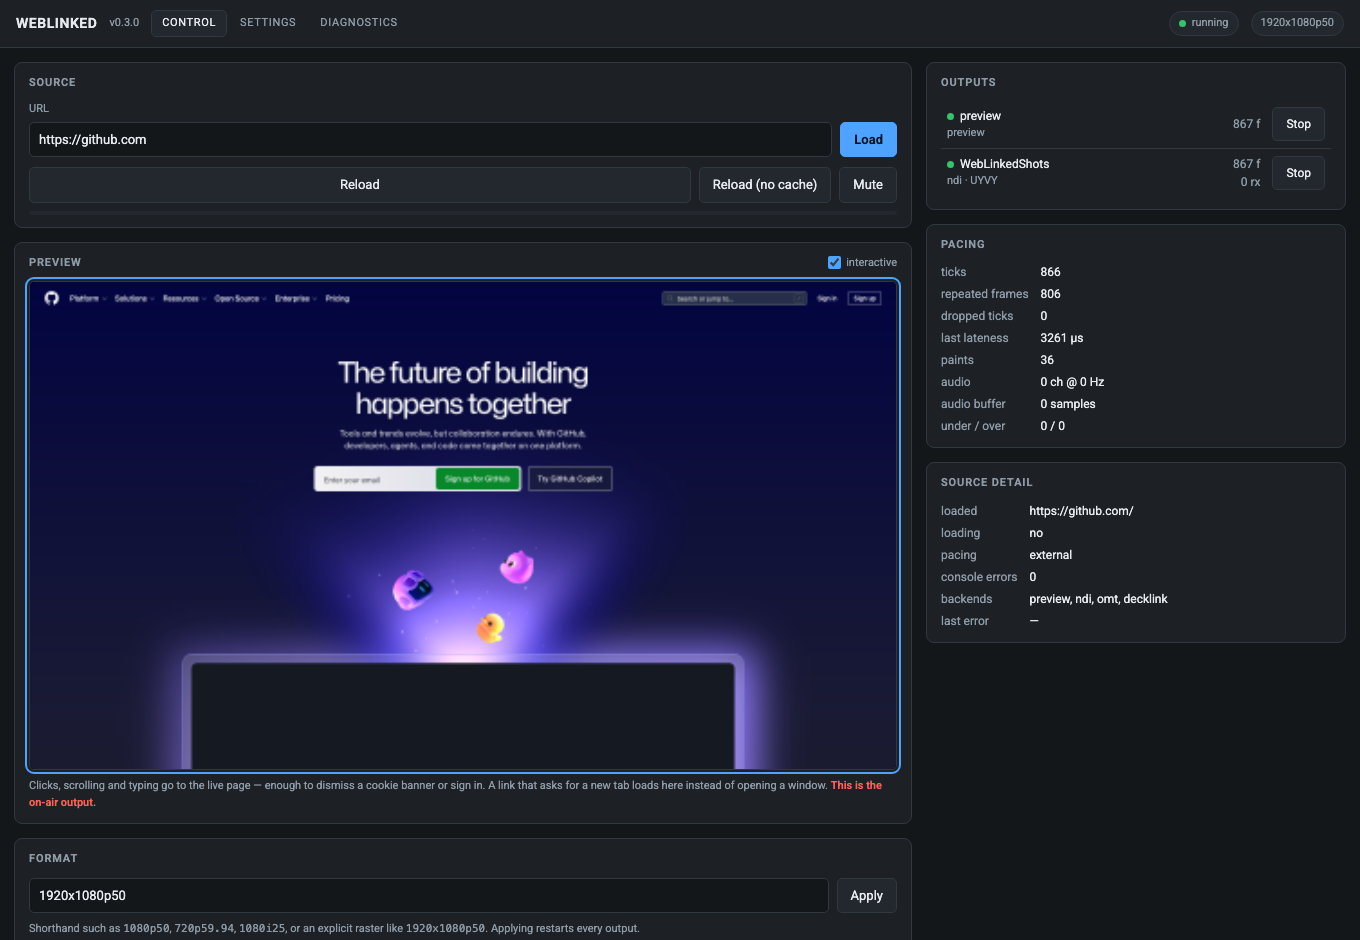
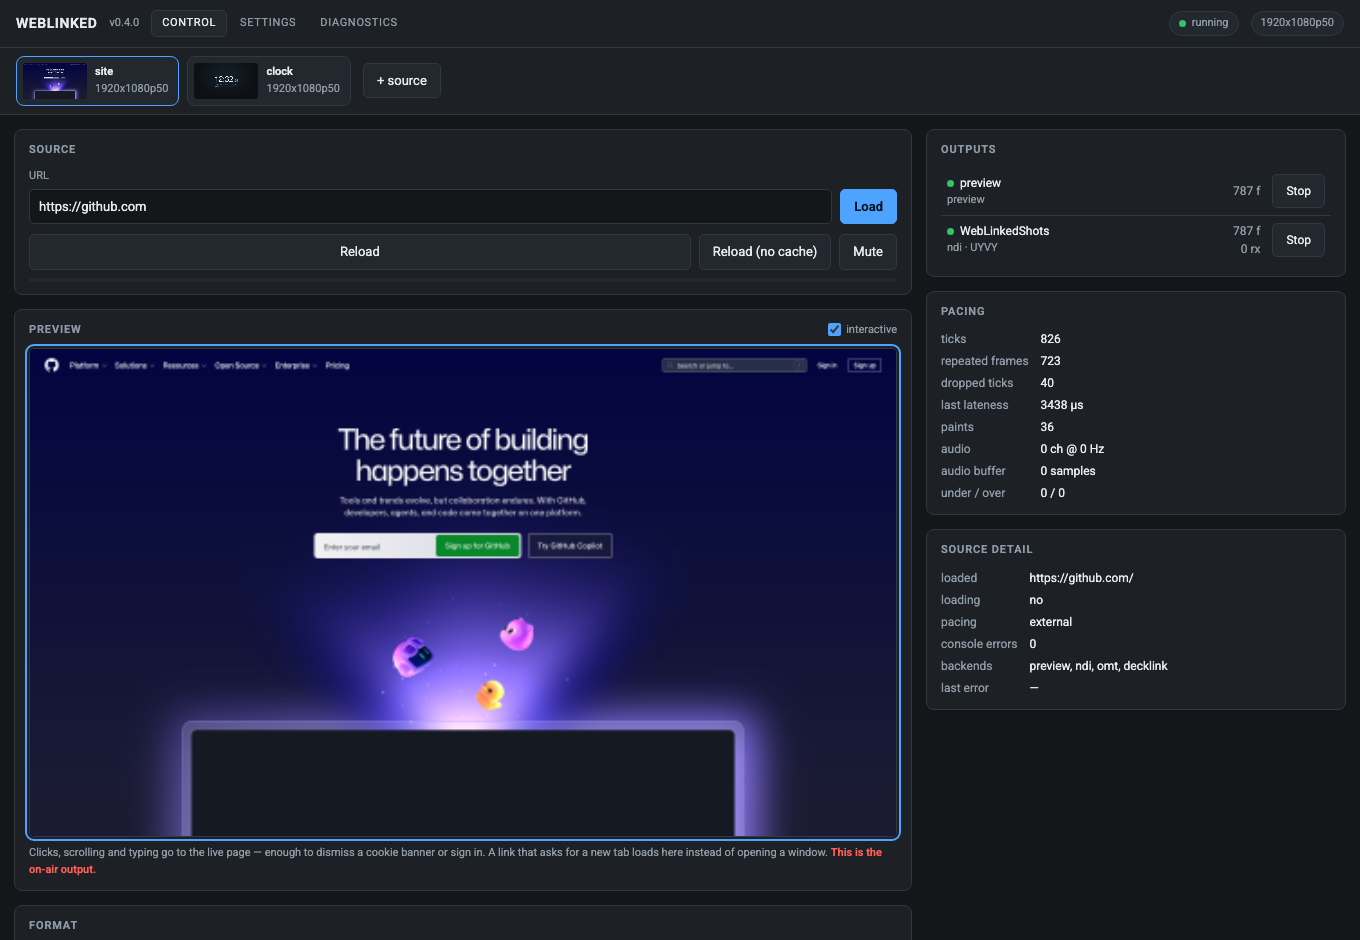
Release v0.4.0: several sources in one process
Version, README, AGENTS.md and all five screenshots brought up to what the
build actually does.

The screenshots are regenerated from a real two-source instance rather than a
single one, because the control page's source strip only exists when there is
more than one - and the strip is the thing the pictures now have to show. That
also removes the mid-run URL switch tools/screenshots.sh needed to get a second
output frame: both sources are simply on air at once, and the two frames in the
README were received from the network simultaneously, from the same process
that served the page above them.

AGENTS.md gains the invariants this work established, all of which have already
cost time once: sources never learn about each other, an Engine is only ever
reached through SourceManager::withSource, the control page has no build step so
a stray byte is invisible until run time, and document.hidden does not mean
nobody is looking.

Built clean before tagging, per rule 11 - an incremental build reuses the CEF
wrapper's objects and hides anything that breaks CEF's own compilation.
263 targets from scratch, all four backends configured, 73 tests / 25058 checks
green.

diff --git a/README.md b/README.md
@@ -17,6 +17,9 @@ weblinked --url https://example.com/scoreboard --format 1080p50 --ndi=Scoreboard
 
 # A keyed graphic: alpha over NDI, and key + fill out of a DeckLink
 weblinked --url https://example.com/lower-third --alpha --ndi=LowerThird --key --decklink=0
+
+# Several at once, each with its own browser, clock, raster and outputs
+weblinked --config show.json
 ```
 
 ---
@@ -30,10 +33,12 @@ appears, because none has ever been connected. See
 
 ![The WebLinked control page, rendering github.com to NDI at 1080p50](docs/images/control-page.png)
 
-*The control page. It is both the operator window and a remote panel — the app
-opens this same page in its own window, and any browser on the network can reach
-it. The preview is fed by the same frame pipeline as the SDI and NDI outputs, so
-if the preview is right, the outputs are right.*
+*The control page, driving two sources. It is both the operator window and a
+remote panel — the app opens this same page in its own window, and any browser
+on the network can reach it. The strip along the top carries a live thumbnail per
+source and only appears when there is more than one, so a single-source launch
+looks exactly as it always did. The preview is fed by the same frame pipeline as
+the SDI and NDI outputs, so if the preview is right, the outputs are right.*
 
 | Settings | Diagnostics |
 |---|---|
@@ -47,7 +52,10 @@ browser. They are what a vision mixer would have seen.
 | A live page | A time-of-day clock |
 |---|---|
 | ![github.com rendered to 1080p50 and received over NDI](docs/images/output-github.png) | ![A clock page rendered to 1080p50 and received over NDI](docs/images/output-clock.png) |
-| `--url https://github.com` | `--url file://tools/clock.html` |
+| source `site` | source `clock` |
+
+Both were on the network **at the same time**, from the one process that served
+the control page above — which is what the two chips in its strip are.
 
 `tools/clock.html` ships with the repo. It is a useful thing to point at a feed:
 a clock is the quickest way to see at a glance whether a signal is live, and its
@@ -92,13 +100,27 @@ Regenerate all five with [`tools/screenshots.sh`](tools/screenshots.sh).
 - **Live control**: change the URL, reload, run JavaScript in the page, change
   raster, or stop and start an output mid-show, from the control page, HTTP, or
   OSC.
+- **Several sources in one process.** `--config show.json` starts any number of
+  independent pipelines — each its own browser, clock, raster and outputs — and
+  they share nothing but Chromium's process. A page that hangs, a card that will
+  not open or a raster change on one source cannot touch the others. The control
+  page grows a strip along the top with a live thumbnail per source; HTTP verbs
+  take `?source=<id>` and OSC takes `/weblinked/source/<id>/<verb>`. Leave the id
+  off and the request goes to the first source, so everything that drove a
+  single-source WebLinked still does.
+
+  How many a machine can carry is a property of that machine, not a setting.
+  Three 1080p sources drop frames on an M4 Max; three at 720p25 do not. Measure
+  it where the show will run — [docs/04-verification.md](docs/04-verification.md)
+  has the numbers and the method.
 - **A tray launcher** ([`launcher/`](launcher/)) for a machine where WebLinked
   should come up at login and live in the menu bar rather than in a terminal.
 
 ## What it does not do
 
-- No compositing, no layers, no playlist. It renders one page. If you need two
-  graphics at once, that is what the page is for.
+- No compositing, no layers, no playlist. Each source renders one page. If you
+  need two graphics in one picture, that is what the page is for; if you need two
+  pictures, that is what a second source is for.
 - No capture or input. Output only.
 - No genlock. The engine's clock is a software clock; an SDI card's own scheduled
   playback absorbs the difference. See
@@ -113,6 +135,7 @@ Regenerate all five with [`tools/screenshots.sh`](tools/screenshots.sh).
 |---|---|
 | **NDI** | **Verified end to end**, including alpha. A real receiver confirms raster, rate, pixel format, colour and audio. |
 | **Preview** | Verified, and interactive — it is the control page's confidence monitor. |
+| **Several sources** | **Verified**: three at once on three rasters, each confirmed by a separate receiver, with one retargeted and a fourth added and removed mid-run without disturbing the others. Frame rates are a capacity question — see below. |
 | **Settings + diagnostics pages** | Verified against a running instance: outputs added, renamed and removed, settings saved and read back after a restart, the log and bundle served. |
 | **Tray launcher** | Builds; its config is unit-tested against the file it ships. **Not clicked through against a live WebLinked** — see [launcher/README.md](launcher/README.md). |
 | **OMT** | Compiles against `libomt.h` 1.0.0.16. **Never tested against an OMT receiver.** |
@@ -168,6 +191,11 @@ curl -X POST -d '{"ignore_cache":true}'              http://127.0.0.1:7654/api/r
 curl -X POST -d '{"name":"Graphic","enabled":false}' http://127.0.0.1:7654/api/output
 # Click at the centre of the page, in normalised coordinates
 curl -X POST -d '{"type":"down","nx":0.5,"ny":0.5}'  http://127.0.0.1:7654/api/input
+
+# With several sources, ?source= picks one; without it you get the first
+curl http://127.0.0.1:7654/api/sources
+curl -X POST -d '{"url":"https://example.com/next"}' \
+     'http://127.0.0.1:7654/api/url?source=lower-third'
 ```
 
 Over OSC, on port 7655 — the shape a Companion button sends:
@@ -177,6 +205,9 @@ Over OSC, on port 7655 — the shape a Companion button sends:
 /weblinked/reload       1
 /weblinked/output/Graphic  0
 /weblinked/script       "showLowerThird('Anna Kowalski')"
+
+# One feed by name, when several are running
+/weblinked/source/lower-third/url  "https://example.com/next"
 ```
 
 `/weblinked/script` is the useful one: a graphic that already exposes a function

diff --git a/AGENTS.md b/AGENTS.md
@@ -48,6 +48,12 @@ and a hung control API. See §4.
 and NDI, so if the preview is right the outputs are right. Don't shortcut it
 straight from the browser.
 
+**Sources know nothing about each other.** `SourceManager` holds N whole
+Engines; no engine ever learns that the others exist, which is what makes one
+hung page or one missing card harmless to the rest. The manager is a map and a
+lock, nothing more — resist the urge to give it a shared clock, a shared frame
+pool or a shared browser. The independence *is* the feature.
+
 ## 3. Layout
 
 ```
@@ -175,6 +181,29 @@ screenshot.
 **Never let the settings page rewrite itself under someone's fingers.** The
 state poll runs every second; the editors are built only on arriving at the view
 and after a successful mutation.
+
+**Never hold a bare `Engine*` across anything.** Every call reaches an engine
+through `SourceManager::withSource`, which holds a shared lock for the duration;
+`add`, `remove` and `stop` take the exclusive one. `Engine` reads `browser_`
+without a lock and `Engine::stop()` destroys it, so a pointer that outlives the
+lookup is a use-after-free waiting for an operator to remove a source mid-show.
+The expensive halves of add and remove happen *outside* the lock on purpose —
+holding it across a browser start would freeze every other source's control
+surface.
+
+**The control page has no build step, so a stray byte is invisible until
+run time.** A single NUL inside a `.join(' ')` compiled fine, served 200, rendered
+the HTML, and killed every line of JavaScript after it — the page just sat on
+"connecting" with a black preview. A NUL also makes `grep` treat `web_assets.h`
+as binary and return *nothing*, which will send you the wrong way for ten
+minutes. If the page looks dead, run its own script text through `new Function()`
+in a browser: it names the offending line immediately. The earlier TDZ bug had
+the same shape.
+
+**"Hidden" does not mean nobody is looking.** `document.hidden` is true for a
+kiosk shell, an embedded webview and a screenshot tool. Throttle polling when
+hidden; never skip it. Skipping is exactly why every source thumbnail came out
+black the first time the strip was built.
 
 ## 5. Verified vs assumed — read this before claiming anything works
 
